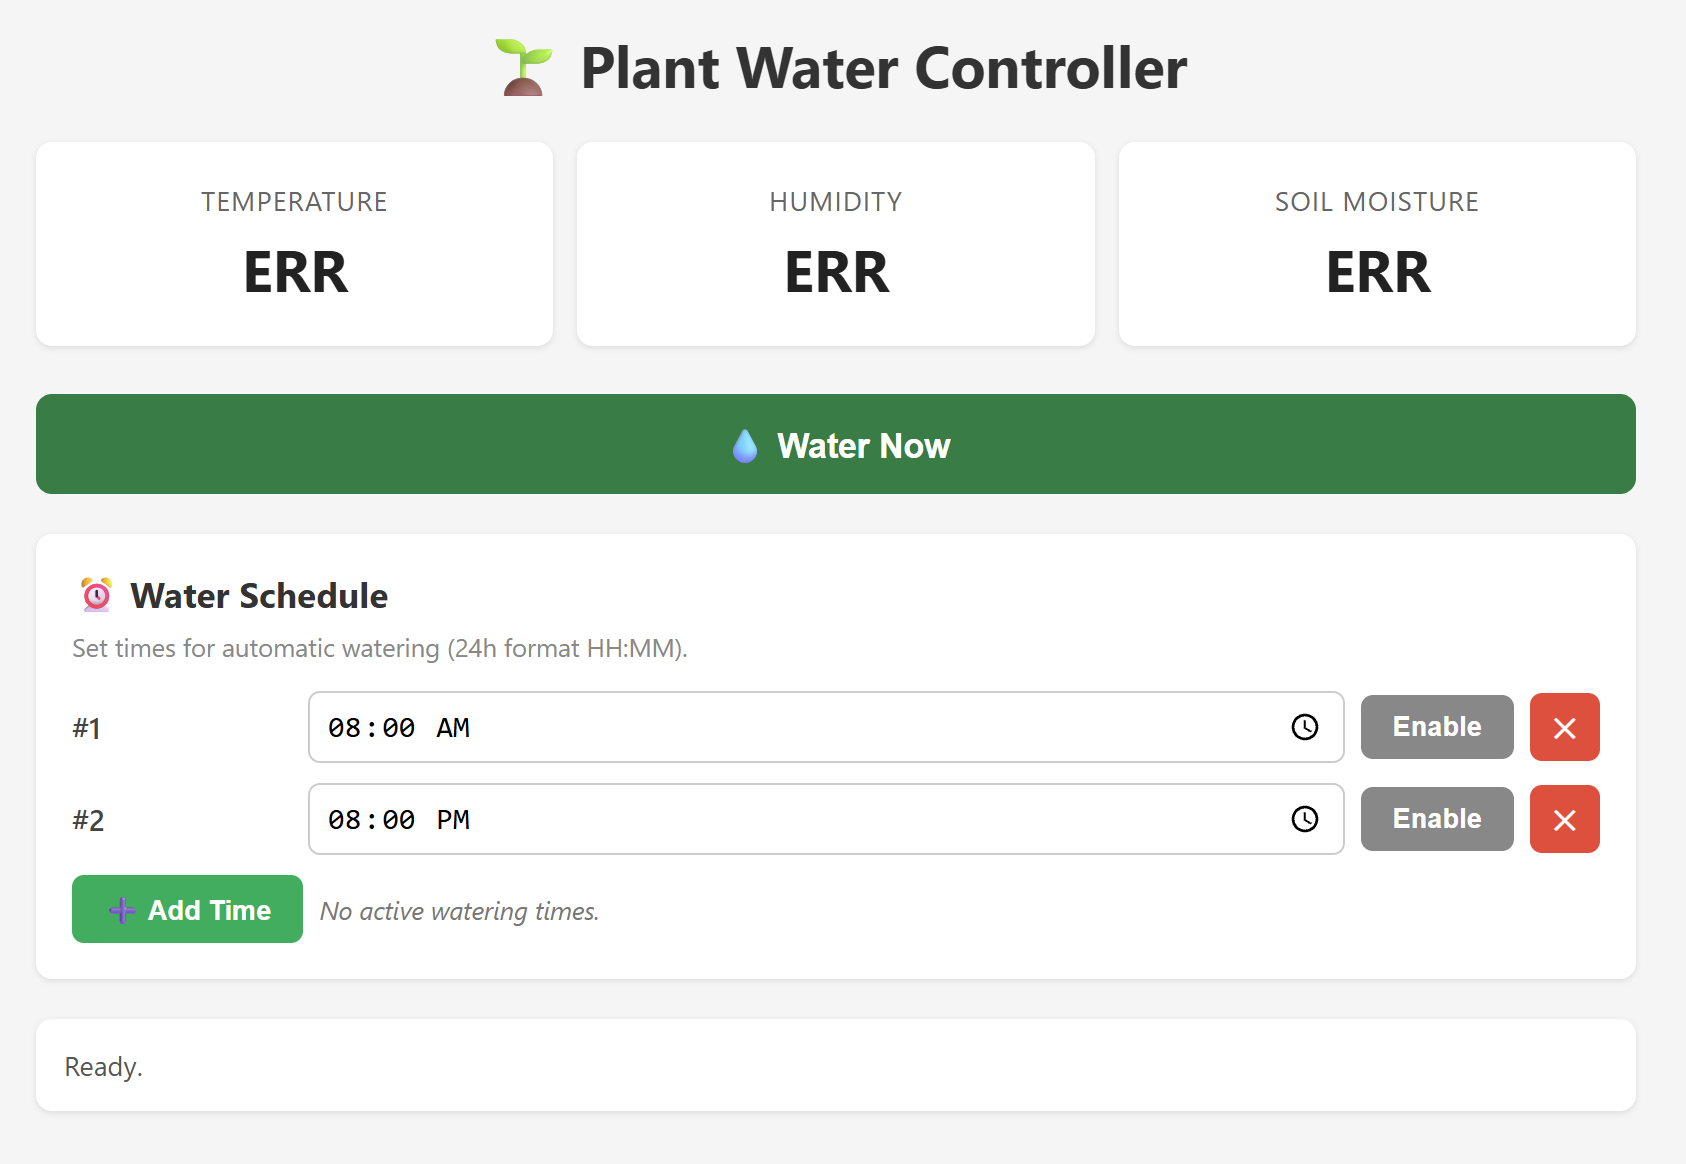
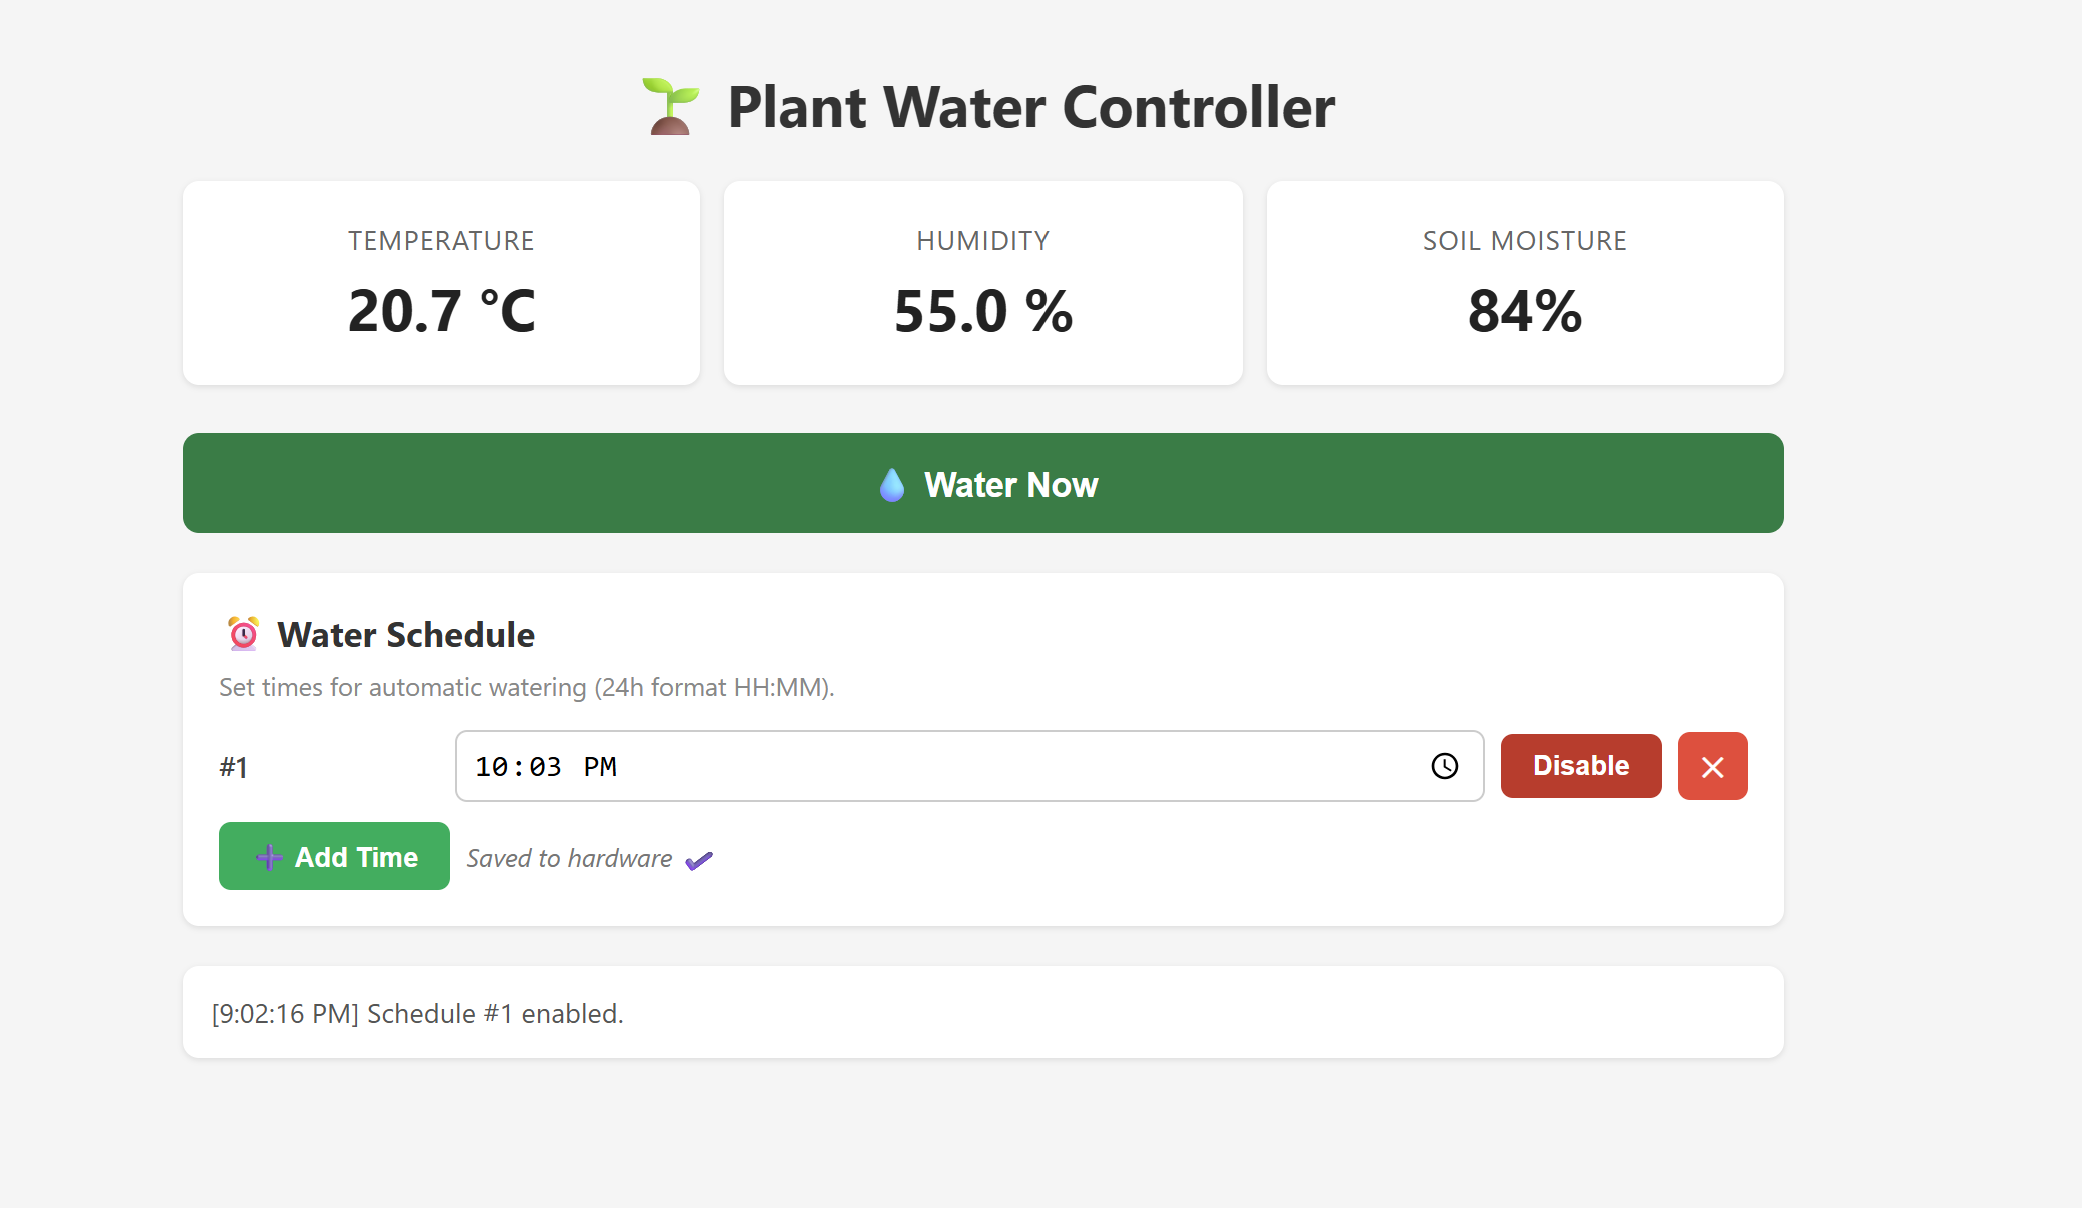
updated plant watering card

diff --git a/index.html b/index.html
@@ -273,14 +273,14 @@
                 </div>
 
                 <!-- Full-width placeholder card -->
-                <article class="project-card project-card--fullwidth">
+                <!-- <article class="project-card project-card--fullwidth">
                     <div class="card-image">
                         <img src="assets/images/study-guides.png" alt="Study Guides" class="card-image-content"
                             onerror="this.style.display='none'; this.parentElement.classList.add('card-image--placeholder');">
                     </div>
 
-                    <div class="card-body">
-                        <h3 class="card-title">Study Guides</h3>
+                    <!-- <div class="card-body"> -->
+                        <!-- <h3 class="card-title">Study Guides</h3>
                         <p class="card-description">
                             Mini online study tools based on what I learn at school. Interactive quizzes, flashcards,
                             and
@@ -302,7 +302,7 @@
                             <li>Coming Soon</li>
                         </ul>
                     </div>
-                </article>
+                </article> -->
             </div>
         </section>
     </main>
